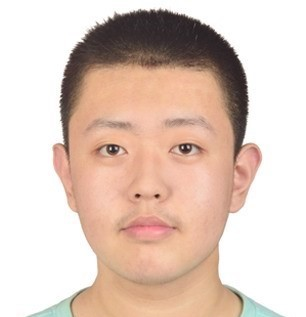
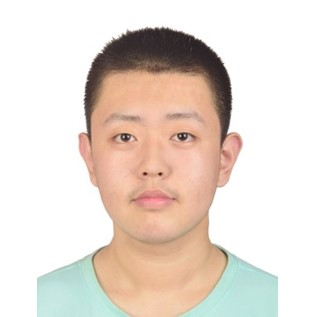
update person

diff --git a/index.html b/index.html
@@ -3402,7 +3402,7 @@ mainbody (write down the main text)
       
     
     
-      <a href="/authors/haolin-dong/"><img class="portrait" src="/authors/haolin-dong/avatar_hu1bbd9c504ec0cdfdf7f3b5d48e9b1158_641305_150x150_fill_lanczos_center_2.png" alt="Avatar"></a>
+      <a href="/authors/haolin-dong/"><img class="portrait" src="/authors/haolin-dong/avatar_hubae8ad8f6f5689a44e07e93b9b89e853_128256_150x150_fill_lanczos_center_2.png" alt="Avatar"></a>
     
 
     <div class="portrait-title">
@@ -3427,7 +3427,7 @@ mainbody (write down the main text)
       
     
     
-      <a href="/authors/jilin-zhao/"><img class="portrait" src="/authors/jilin-zhao/avatar_hu225dcaea50000a4a2dd05971ac2abc89_149091_150x150_fill_q90_lanczos_center.jpg" alt="Avatar"></a>
+      <a href="/authors/jilin-zhao/"><img class="portrait" src="/authors/jilin-zhao/avatar_hu75491f5039f9a32c7a314df39d52847a_12955_150x150_fill_q90_lanczos_center.jpg" alt="Avatar"></a>
     
 
     <div class="portrait-title">
@@ -3502,7 +3502,7 @@ mainbody (write down the main text)
       
     
     
-      <a href="/authors/kunhan-lu/"><img class="portrait" src="/authors/kunhan-lu/avatar_hud9b9eb83c52ee18b4ff5c4263d1f6c58_156124_150x150_fill_q90_lanczos_center.jpg" alt="Avatar"></a>
+      <a href="/authors/kunhan-lu/"><img class="portrait" src="/authors/kunhan-lu/avatar_huff0ee290ca817d074df943f64821ba2b_11730_150x150_fill_q90_lanczos_center.jpg" alt="Avatar"></a>
     
 
     <div class="portrait-title">
@@ -3527,7 +3527,7 @@ mainbody (write down the main text)
       
     
     
-      <a href="/authors/yihu-wang/"><img class="portrait" src="/authors/yihu-wang/avatar_hube80de190fd3f76fa985971e37d63ba7_39716_150x150_fill_q90_lanczos_center.jpg" alt="Avatar"></a>
+      <a href="/authors/yihu-wang/"><img class="portrait" src="/authors/yihu-wang/avatar_hufa62071d6b21c10381d8d0b955a99df9_12265_150x150_fill_q90_lanczos_center.jpg" alt="Avatar"></a>
     
 
     <div class="portrait-title">
@@ -3552,7 +3552,7 @@ mainbody (write down the main text)
       
     
     
-      <a href="/authors/yuchen-li/"><img class="portrait" src="/authors/yuchen-li/avatar%20-%20%E5%89%AF%E6%9C%AC_huef85fdff8b04bb6a969f63e136e6902c_775534_150x150_fill_lanczos_center_2.png" alt="Avatar"></a>
+      <a href="/authors/yuchen-li/"><img class="portrait" src="/authors/yuchen-li/avatar_hu5a4ca02cc42209c3c70ead8ecfe63636_110646_150x150_fill_lanczos_center_2.png" alt="Avatar"></a>
     
 
     <div class="portrait-title">
@@ -3577,7 +3577,7 @@ mainbody (write down the main text)
       
     
     
-      <a href="/authors/zijie-zhang/"><img class="portrait" src="/authors/zijie-zhang/avatar_hubaac70be0757237ef7f7604964a04bbd_70104_150x150_fill_q90_lanczos_center.jpg" alt="Avatar"></a>
+      <a href="/authors/zijie-zhang/"><img class="portrait" src="/authors/zijie-zhang/avatar_hu30239ce1bf8c851e916fc6560565ea3f_13251_150x150_fill_q90_lanczos_center.jpg" alt="Avatar"></a>
     
 
     <div class="portrait-title">
@@ -3609,7 +3609,7 @@ mainbody (write down the main text)
       
     
     
-      <a href="/authors/haobo-zuo/"><img class="portrait" src="/authors/haobo-zuo/avatar_hu9033641a91d1a31c7188ae31b917df04_336820_150x150_fill_q90_lanczos_center.jpg" alt="Avatar"></a>
+      <a href="/authors/haobo-zuo/"><img class="portrait" src="/authors/haobo-zuo/avatar_hu8b6d89e8282d59c257414fe1f5233095_13362_150x150_fill_q90_lanczos_center.jpg" alt="Avatar"></a>
     
 
     <div class="portrait-title">
@@ -3734,7 +3734,7 @@ mainbody (write down the main text)
       
     
     
-      <a href="/authors/liangliang-yao/"><img class="portrait" src="/authors/liangliang-yao/avatar_hu3c71362c7aa7e6081c77276f8446e2f0_14162_150x150_fill_q90_lanczos_center.jpg" alt="Avatar"></a>
+      <a href="/authors/liangliang-yao/"><img class="portrait" src="/authors/liangliang-yao/avatar_hu2aca484f8a455a76ffc73f33b760e80f_13139_150x150_fill_q90_lanczos_center.jpg" alt="Avatar"></a>
     
 
     <div class="portrait-title">

diff --git a/publication/2022_iros_fdnt/index.html b/publication/2022_iros_fdnt/index.html
@@ -731,7 +731,7 @@
   <div class="media author-card" itemscope itemtype="http://schema.org/Person">
     
       
-      <img class="portrait mr-3" src="/authors/haobo-zuo/avatar_hu9033641a91d1a31c7188ae31b917df04_336820_250x250_fill_q90_lanczos_center.jpg" itemprop="image" alt="Avatar">
+      <img class="portrait mr-3" src="/authors/haobo-zuo/avatar_hu8b6d89e8282d59c257414fe1f5233095_13362_250x250_fill_q90_lanczos_center.jpg" itemprop="image" alt="Avatar">
     
 
     <div class="media-body">

diff --git a/authors/yuchen-li/index.html b/authors/yuchen-li/index.html
@@ -441,7 +441,7 @@
 
       
       
-      <img class="portrait" src="/authors/yuchen-li/avatar%20-%20%E5%89%AF%E6%9C%AC_huef85fdff8b04bb6a969f63e136e6902c_775534_250x250_fill_lanczos_center_2.png" itemprop="image" alt="Avatar">
+      <img class="portrait" src="/authors/yuchen-li/avatar_hu5a4ca02cc42209c3c70ead8ecfe63636_110646_250x250_fill_lanczos_center_2.png" itemprop="image" alt="Avatar">
       
 
       <div class="portrait-title">

diff --git a/authors/liangliang-yao/index.html b/authors/liangliang-yao/index.html
@@ -441,7 +441,7 @@
 
       
       
-      <img class="portrait" src="/authors/liangliang-yao/avatar_hu3c71362c7aa7e6081c77276f8446e2f0_14162_250x250_fill_q90_lanczos_center.jpg" itemprop="image" alt="Avatar">
+      <img class="portrait" src="/authors/liangliang-yao/avatar_hu2aca484f8a455a76ffc73f33b760e80f_13139_250x250_fill_q90_lanczos_center.jpg" itemprop="image" alt="Avatar">
       
 
       <div class="portrait-title">

diff --git a/authors/zijie-zhang/index.html b/authors/zijie-zhang/index.html
@@ -441,7 +441,7 @@
 
       
       
-      <img class="portrait" src="/authors/zijie-zhang/avatar_hubaac70be0757237ef7f7604964a04bbd_70104_250x250_fill_q90_lanczos_center.jpg" itemprop="image" alt="Avatar">
+      <img class="portrait" src="/authors/zijie-zhang/avatar_hu30239ce1bf8c851e916fc6560565ea3f_13251_250x250_fill_q90_lanczos_center.jpg" itemprop="image" alt="Avatar">
       
 
       <div class="portrait-title">

diff --git a/authors/jilin-zhao/index.html b/authors/jilin-zhao/index.html
@@ -441,7 +441,7 @@
 
       
       
-      <img class="portrait" src="/authors/jilin-zhao/avatar_hu225dcaea50000a4a2dd05971ac2abc89_149091_250x250_fill_q90_lanczos_center.jpg" itemprop="image" alt="Avatar">
+      <img class="portrait" src="/authors/jilin-zhao/avatar_hu75491f5039f9a32c7a314df39d52847a_12955_250x250_fill_q90_lanczos_center.jpg" itemprop="image" alt="Avatar">
       
 
       <div class="portrait-title">

diff --git a/authors/haolin-dong/index.html b/authors/haolin-dong/index.html
@@ -441,7 +441,7 @@
 
       
       
-      <img class="portrait" src="/authors/haolin-dong/avatar_hu1bbd9c504ec0cdfdf7f3b5d48e9b1158_641305_250x250_fill_lanczos_center_2.png" itemprop="image" alt="Avatar">
+      <img class="portrait" src="/authors/haolin-dong/avatar_hubae8ad8f6f5689a44e07e93b9b89e853_128256_250x250_fill_lanczos_center_2.png" itemprop="image" alt="Avatar">
       
 
       <div class="portrait-title">

diff --git a/authors/haobo-zuo/index.html b/authors/haobo-zuo/index.html
@@ -441,7 +441,7 @@
 
       
       
-      <img class="portrait" src="/authors/haobo-zuo/avatar_hu9033641a91d1a31c7188ae31b917df04_336820_250x250_fill_q90_lanczos_center.jpg" itemprop="image" alt="Avatar">
+      <img class="portrait" src="/authors/haobo-zuo/avatar_hu8b6d89e8282d59c257414fe1f5233095_13362_250x250_fill_q90_lanczos_center.jpg" itemprop="image" alt="Avatar">
       
 
       <div class="portrait-title">

diff --git a/authors/kunhan-lu/index.html b/authors/kunhan-lu/index.html
@@ -441,7 +441,7 @@
 
       
       
-      <img class="portrait" src="/authors/kunhan-lu/avatar_hud9b9eb83c52ee18b4ff5c4263d1f6c58_156124_250x250_fill_q90_lanczos_center.jpg" itemprop="image" alt="Avatar">
+      <img class="portrait" src="/authors/kunhan-lu/avatar_huff0ee290ca817d074df943f64821ba2b_11730_250x250_fill_q90_lanczos_center.jpg" itemprop="image" alt="Avatar">
       
 
       <div class="portrait-title">

diff --git a/authors/yihu-wang/index.html b/authors/yihu-wang/index.html
@@ -441,7 +441,7 @@
 
       
       
-      <img class="portrait" src="/authors/yihu-wang/avatar_hube80de190fd3f76fa985971e37d63ba7_39716_250x250_fill_q90_lanczos_center.jpg" itemprop="image" alt="Avatar">
+      <img class="portrait" src="/authors/yihu-wang/avatar_hufa62071d6b21c10381d8d0b955a99df9_12265_250x250_fill_q90_lanczos_center.jpg" itemprop="image" alt="Avatar">
       
 
       <div class="portrait-title">
